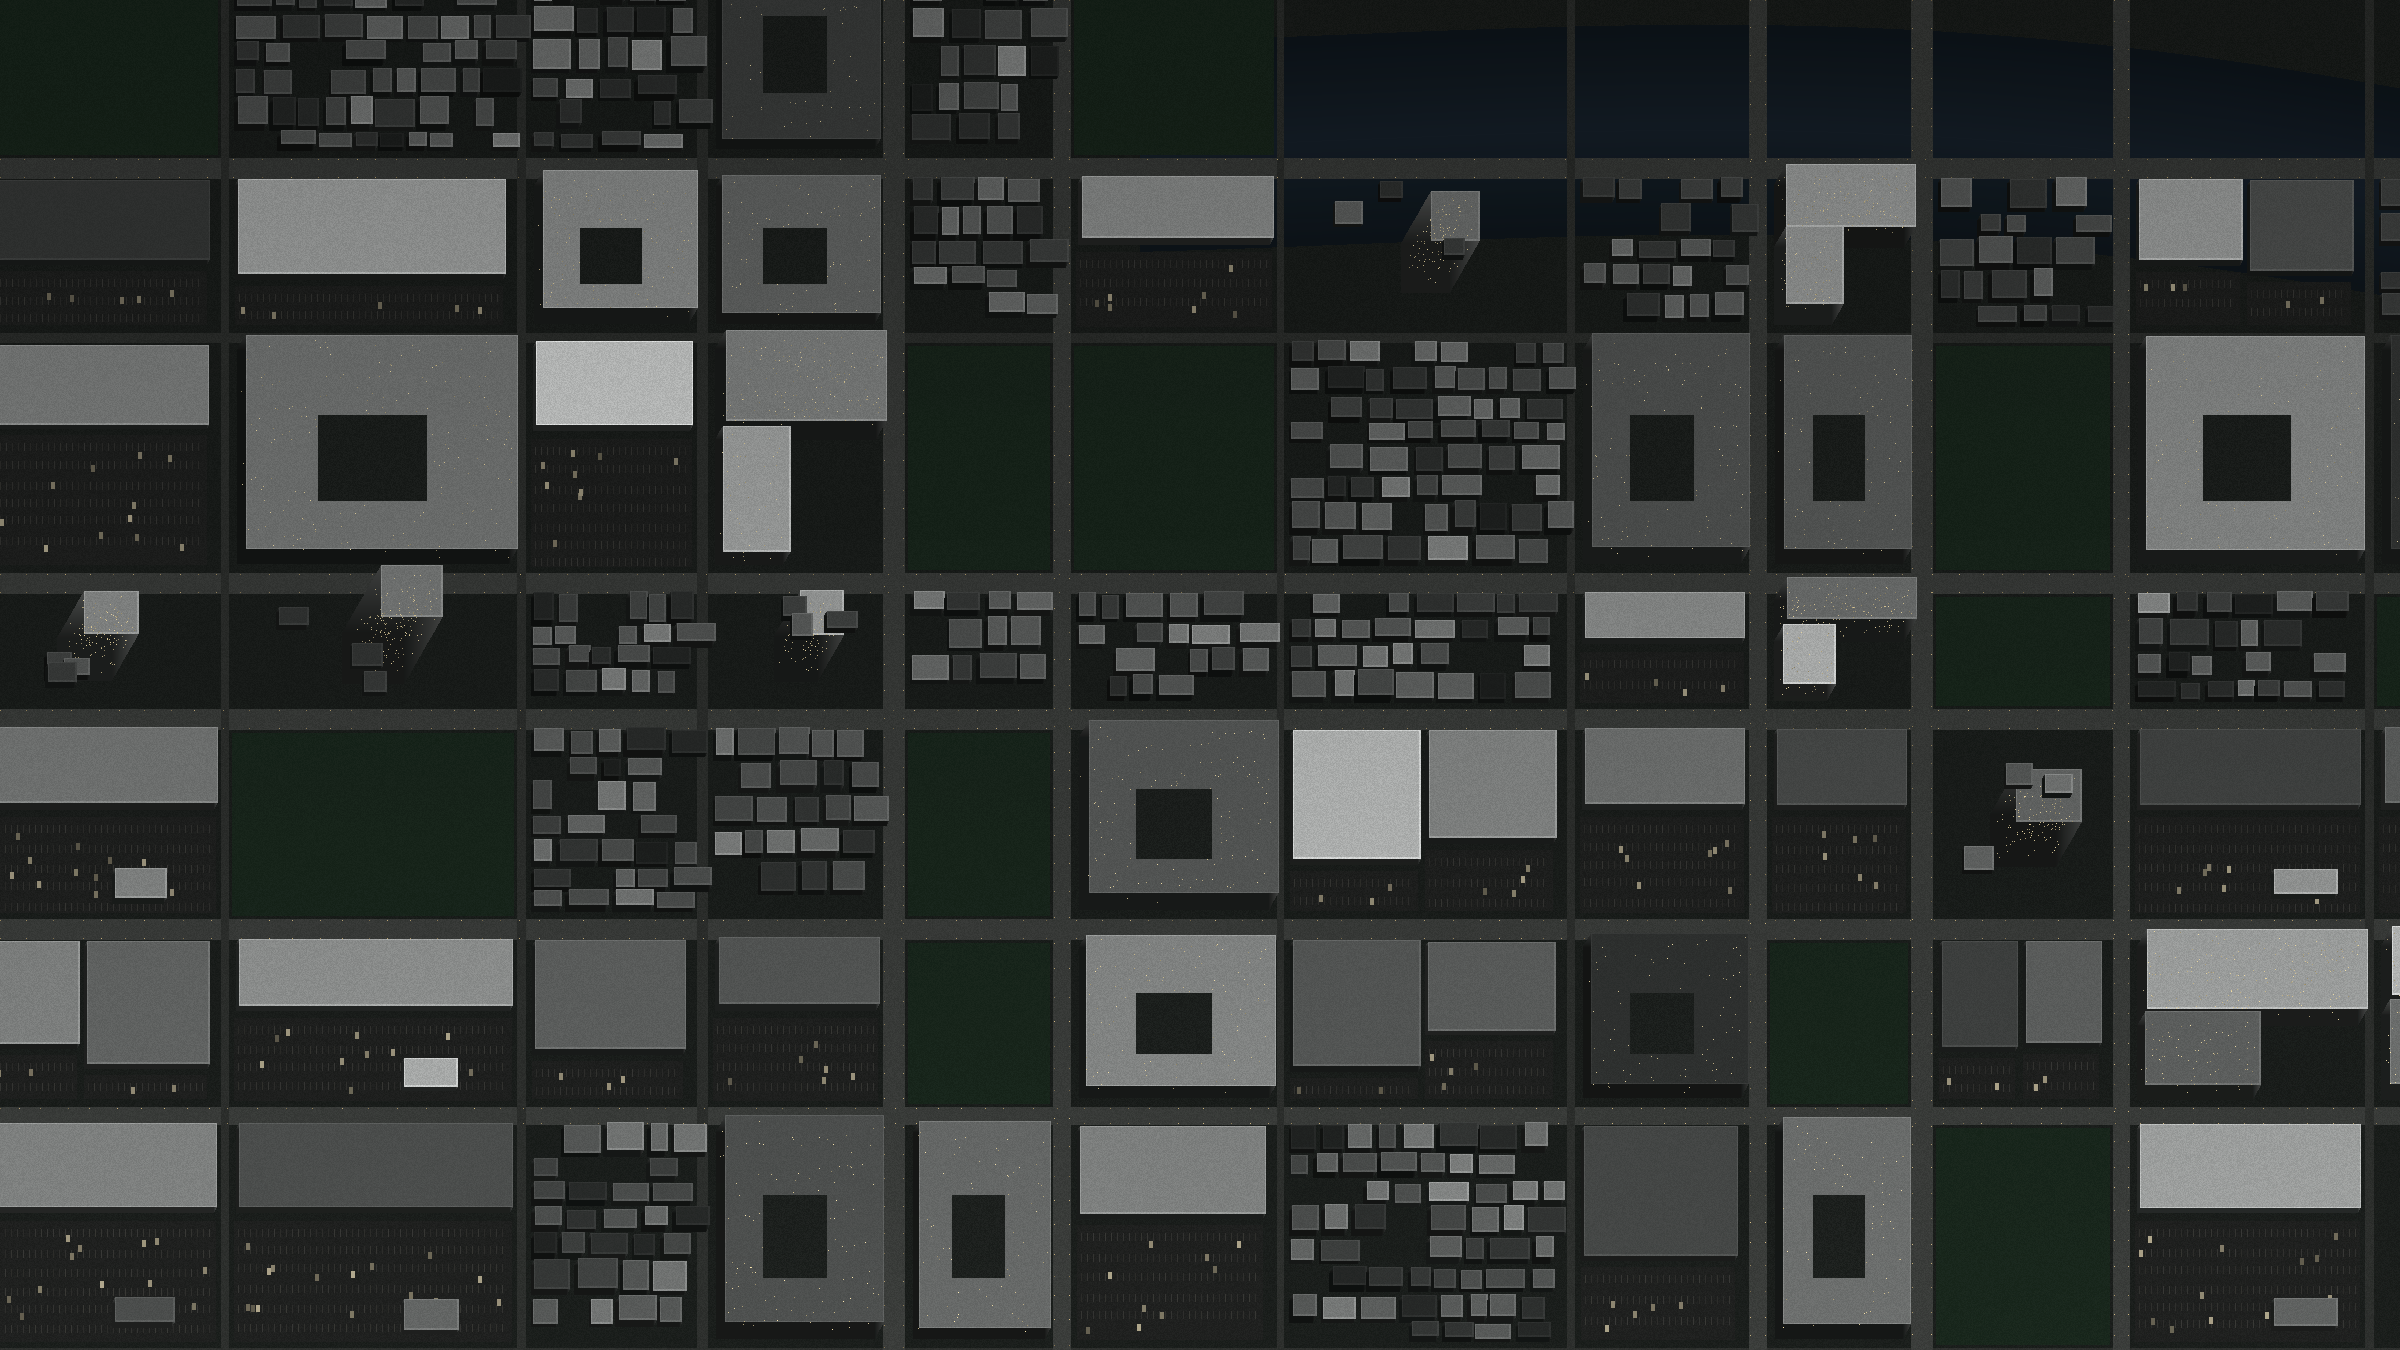
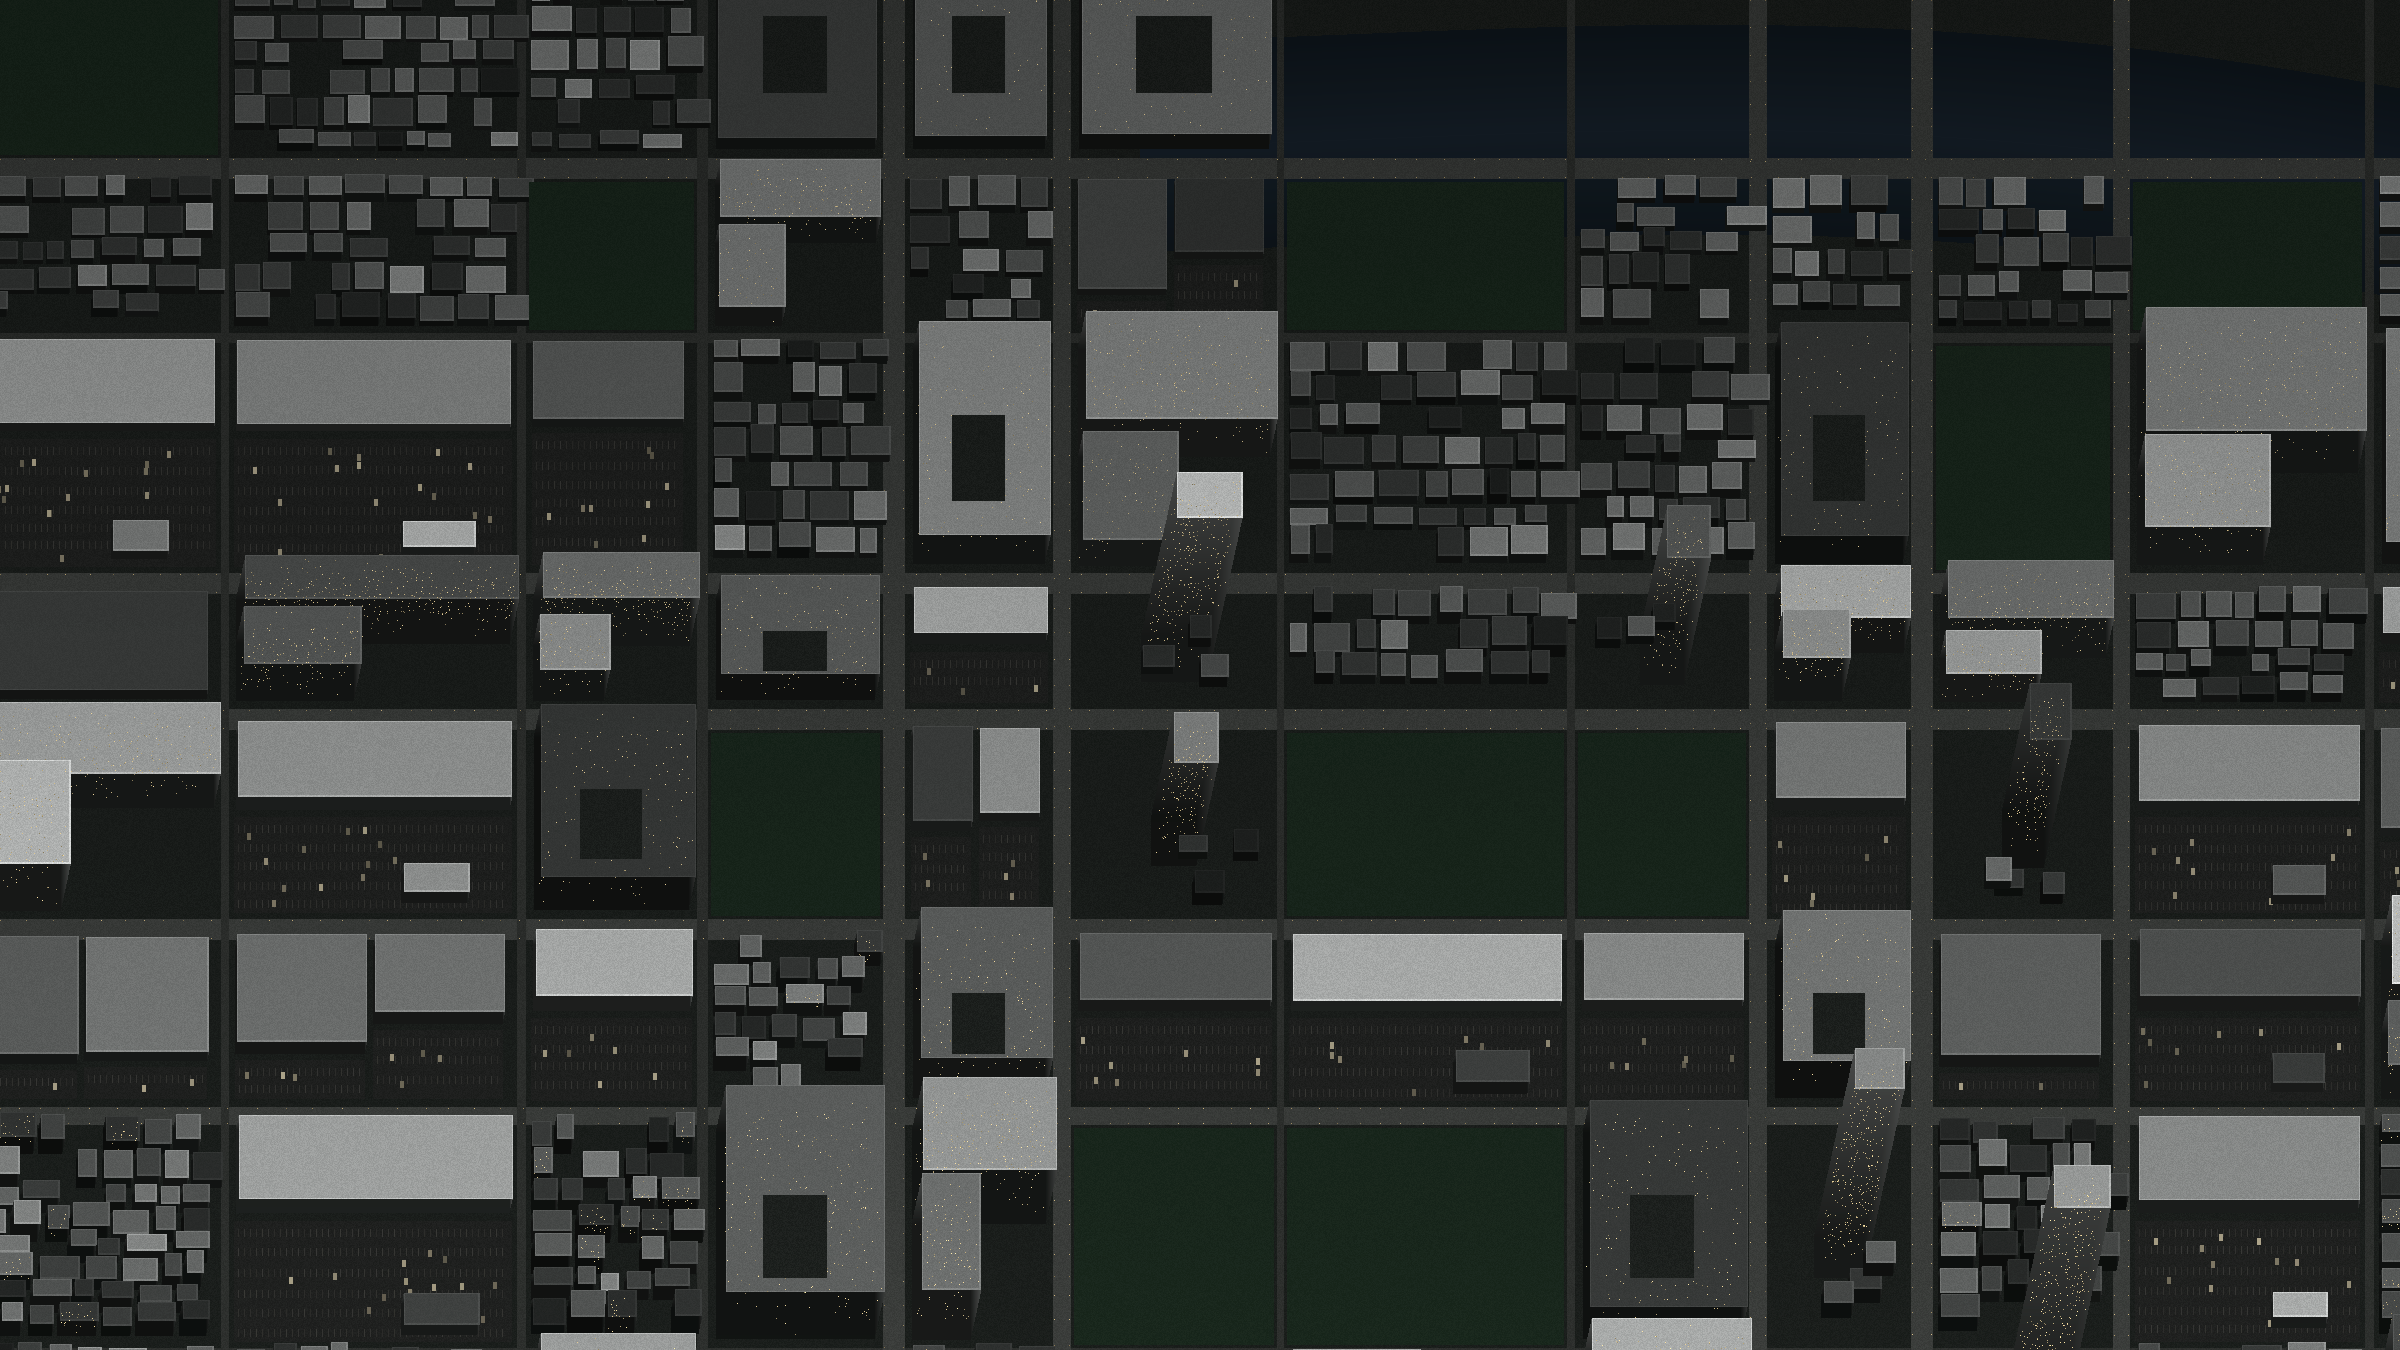
Drop the hero camera so the towers show their faces
A straight overhead view renders every building as its own roof and
nothing else, which is a plan drawing: no towers, no skyline, no sense
that these are objects with height. The camera is now low and oblique.
DY is nearly five times DX because the lean is mostly along the viewing
axis, and the perspective factor grows toward the bottom of the frame, so
foreground blocks lean hardest. That gradient is the difference between
an oblique photograph and an isometric illustration.

Towers roughly doubled in height and lit windows moved onto the face,
which is now the biggest part of a tall building and most of what makes
it read as a tower at this distance. The low fabric stayed low, because
that contrast is what gives the towers something to be tall against.

Highlight coordinates re-measured against the new roof positions.

Also: the mode intro no longer swaps out, it dissolves. Cutting it made
the sentence vanish mid-read, which is worse than never showing it. It
is a layer over the story rather than a branch instead of it, holds
longer before it goes, and comes back every time a mode is picked,
including a mode somebody has already seen.

diff --git a/src/components/vera/VeraShowcase.tsx b/src/components/vera/VeraShowcase.tsx
@@ -40,11 +40,6 @@ export function VeraShowcase({
   const shown = (i: number) => i < revealed;
   const n = story.evidence.length;
 
-  /* The mode explains itself before it demonstrates itself. Two seconds on a
-     near-empty panel is the difference between "records and a green box" and
-     "oh, that is what it is doing". */
-  if (revealed < 0) return <Intro story={story} />;
-
   /* step order: 0 header, 1..n evidence, n+1 conclusion, n+2 next.
      Ask puts the conclusion first, so it reveals with the header. */
   const conclusionStep = story.answerFirst ? 0 : n + 1;
@@ -69,9 +64,10 @@ export function VeraShowcase({
   );
 
   return (
-    <div className="flex min-h-[372px] flex-col px-5 py-5 font-product lg:min-h-[562px] lg:px-7 lg:py-6">
-      {/* the property this is all about, stated once and quietly */}
-      <div
+    <div className="relative">
+      <div className="flex min-h-[372px] flex-col px-5 py-5 font-product lg:min-h-[562px] lg:px-7 lg:py-6">
+        {/* the property this is all about, stated once and quietly */}
+        <div
         className={clsx(
           "transition-opacity duration-considered ease-state",
           shown(0) ? "opacity-100" : "opacity-0",
@@ -142,6 +138,22 @@ export function VeraShowcase({
           </p>
         </div>
         <p className="shrink-0 text-[12px] text-mineral-500">{story.sources}</p>
+        </div>
+      </div>
+
+      {/* The mode explains itself before it demonstrates itself, then gets out
+          of the way. It is a LAYER rather than a branch so it can dissolve:
+          swapping the panel outright made the sentence vanish mid-read, which
+          is worse than never showing it. Opaque, because the story underneath
+          is already fading in behind it. */}
+      <div
+        className={clsx(
+          "pointer-events-none absolute inset-0 bg-mineral-0",
+          "transition-opacity duration-deliberate ease-state",
+          revealed < 0 ? "opacity-100" : "opacity-0",
+        )}
+      >
+        <Intro story={story} />
       </div>
     </div>
   );
@@ -237,7 +249,7 @@ export const stepsFor = (id: VeraStory["id"]) =>
    a pixel when the intro gives way to the evidence. */
 function Intro({ story }: { story: VeraStory }) {
   return (
-    <div className="flex min-h-[372px] flex-col justify-center px-5 py-5 font-product lg:min-h-[562px] lg:px-7 lg:py-6">
+    <div className="flex h-full min-h-[372px] flex-col justify-center px-5 py-5 font-product lg:min-h-[562px] lg:px-7 lg:py-6">
       <div className="hero-intro-in max-w-[38ch]">
         <p className="flex items-center gap-2 text-[12px] font-semibold uppercase tracking-[0.06em] text-vera-700">
           <VeraMark size={14} />

diff --git a/src/lib/hero-portfolio.ts b/src/lib/hero-portfolio.ts
@@ -63,12 +63,12 @@ export type Highlight = {
    so nothing is marked there: an outline with no visible building under it
    reads as a bug, not as restraint. */
 export const HERO_HIGHLIGHTS: Highlight[] = [
-  { id: "residences", type: "residential", x: 74.34, y: 24.83, w: 5.33, h: 15.85, pin: 7, hideBelowLg: true },
-  { id: "office", type: "office", x: 74.47, y: 42.80, w: 5.42, h: 3.04 },
-  { id: "plaza", type: "retail", x: 74.06, y: 54.02, w: 5.42, h: 5.60, pin: 6 },
-  { id: "tower", type: "mixed-use", x: 84.01, y: 57.03, w: 2.72, h: 3.87, pin: 11 },
-  { id: "neighbourhood", type: "retail", x: 89.18, y: 54.03, w: 9.21, h: 5.60, hideBelowLg: true },
-  { id: "logistics", type: "industrial", x: 80.92, y: 69.75, w: 3.17, h: 7.85, pin: 6 },
+  { id: "residences", type: "residential", x: 74.22, y: 23.86, w: 5.33, h: 15.85, pin: 7, hideBelowLg: true },
+  { id: "office", type: "office", x: 74.24, y: 41.89, w: 5.42, h: 3.88 },
+  { id: "plaza", type: "retail", x: 74.03, y: 53.49, w: 5.42, h: 5.60, pin: 6 },
+  { id: "tower", type: "mixed-use", x: 84.59, y: 50.61, w: 1.74, h: 4.19, pin: 9 },
+  { id: "neighbourhood", type: "retail", x: 89.13, y: 53.73, w: 9.21, h: 5.60, hideBelowLg: true },
+  { id: "logistics", type: "industrial", x: 80.90, y: 69.25, w: 6.67, h: 8.96, pin: 6 },
 ];
 
 /* Street names, so the frame reads as a place rather than as a texture.

diff --git a/src/components/vera/MeetVera.tsx b/src/components/vera/MeetVera.tsx
@@ -38,10 +38,10 @@ const STEP_MS = 620;
 const HOLD_MS = 3600;
 /* long enough to read one sentence and understand what is about to happen,
    short enough that nobody feels held up by it */
-const INTRO_MS = 2600;
+const INTRO_MS = 3400;
 /* shorter when somebody asked for the mode themselves: they have already
    decided to look, so the sentence is a caption rather than a preamble */
-const PICKED_INTRO_MS = 1900;
+const PICKED_INTRO_MS = 2600;
 
 /* below zero is the intro panel: the mode saying what it is for before it
    does it. Also the state the section sits in before anything has played, so
